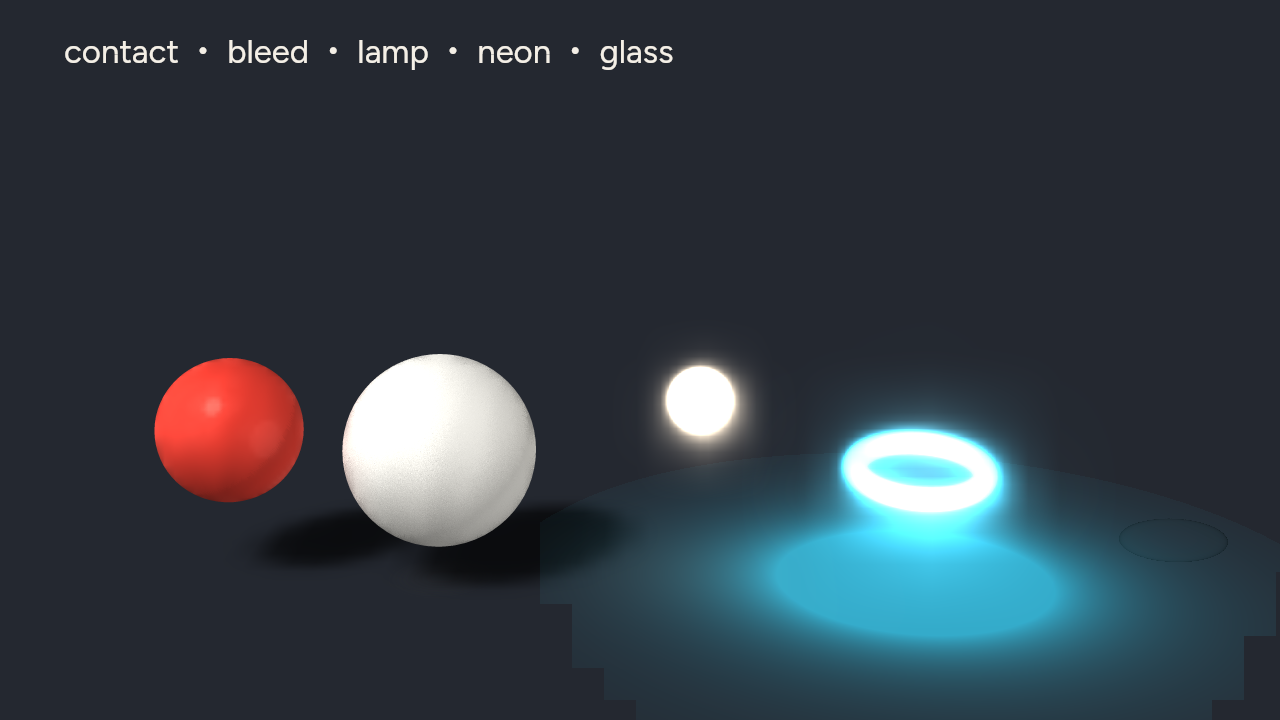
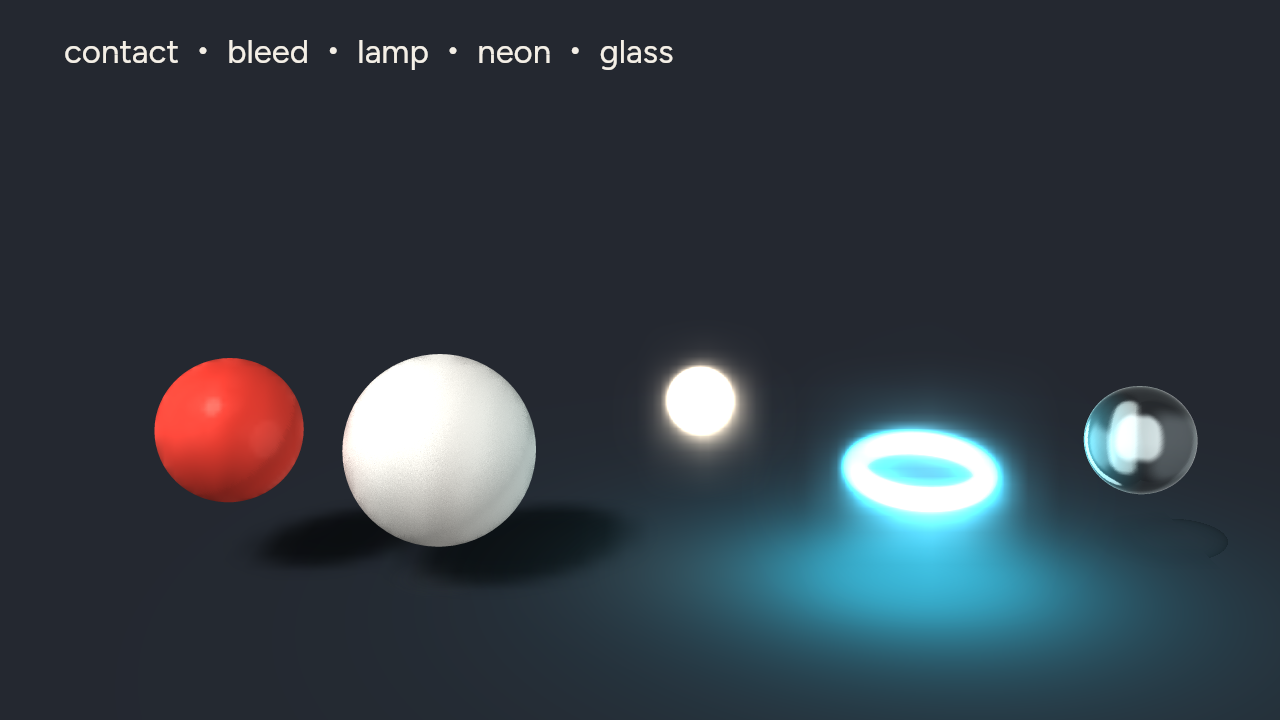
Keep 0.13.6 light pools smooth and leave the glass sphere visible.
The ground no longer covers a translucent glass solid, and the gallery checks that a pool does not stair-step.

Changed region(s): [[0.5625, 0.7028, 0.875, 0.9167], [0.8438, 0.5194, 0.9375, 0.7028]]

diff --git a/src/lighting.spec.ts b/src/lighting.spec.ts
@@ -47,4 +47,59 @@ describe('lighting', () => {
     const far = luma(ctx.getImageData(16, 140, 1, 1).data)
     expect(pool).toBeGreaterThan(far + 4)
   })
+
+  it('灯的光池沿一行相邻亮度差不超过 3', async () => {
+    const { png } = await renderLayer(`
+      <layer width="180" height="120" background="#101014" camera="360">
+        <sphere cx="90" cy="48" r="12" material="lamp" />
+        <ground y="96" rotateX="82" fill="#24262e" shadow-opacity="0" />
+      </layer>
+    `)
+    const ctx = await imageOf(png)
+    const lumaAt = (x: number, y: number) => {
+      const px = ctx.getImageData(x, y, 1, 1).data
+      return px[0]! * 0.3 + px[1]! * 0.59 + px[2]! * 0.11
+    }
+    const y = 92
+    const line = Array.from({ length: 160 }, (_, i) => lumaAt(10 + i, y))
+    const mid = line[80]!
+    const edge = Math.min(line[0]!, line[line.length - 1]!)
+    expect(mid).toBeGreaterThan(edge + 4)
+    let jump = 0
+    for (let i = 1; i < line.length; i++) jump = Math.max(jump, Math.abs(line[i]! - line[i - 1]!))
+    expect(jump).toBeLessThanOrEqual(3)
+  })
+
+  it('扁霓虹圆环下的光池没有台阶', async () => {
+    const { png } = await renderLayer(`
+      <layer width="360" height="200" background="#101014" camera="640">
+        <torus cx="180" cy="78" r="70" tube="10" fill="#3ad8ff" material="neon" rotateX="68" />
+        <ground y="168" rotateX="78" fill="#1c1e26" shadow-opacity="0" />
+      </layer>
+    `)
+    const ctx = await imageOf(png)
+    const frame = ctx.getImageData(0, 0, 360, 200).data
+    const lumaAt = (x: number, y: number) => {
+      const i = (y * 360 + x) * 4
+      return frame[i]! * 0.3 + frame[i + 1]! * 0.59 + frame[i + 2]! * 0.11
+    }
+    const y0 = 144
+    const y1 = 176
+    const x0 = 50
+    const x1 = 310
+    let brightest = 0
+    let dimmest = 255
+    let jump = 0
+    for (let y = y0; y <= y1; y++) {
+      for (let x = x0; x <= x1; x++) {
+        const L = lumaAt(x, y)
+        brightest = Math.max(brightest, L)
+        dimmest = Math.min(dimmest, L)
+        if (x < x1) jump = Math.max(jump, Math.abs(lumaAt(x + 1, y) - L))
+        if (y < y1) jump = Math.max(jump, Math.abs(lumaAt(x, y + 1) - L))
+      }
+    }
+    expect(brightest).toBeGreaterThan(dimmest + 4)
+    expect(jump).toBeLessThanOrEqual(3)
+  })
 })

diff --git a/CHANGELOG.md b/CHANGELOG.md
@@ -6,7 +6,7 @@
 
 The key light casts onto solids as well as `ground`. On a solid the edge stays hard. On `ground`, `shadow-blur` is the maximum softness in layer pixels. `0` stays hard. A larger value keeps the edge sharp where the caster meets the ground and softens it as the caster rises. The ground darkens where a caster sits close and picks up a little of that color. A solid does the same from its neighbors.
 
-`lamp` and `neon` emit. Omit `fill` and lamp is `#ffe6c2`, neon is `#3ad8ff`. Neon has a white core and a wider halo. They light what is near them, including the ground, and they do not cast. The halo is centered on the emitter and fades out. It does not end on a rectangle. Glass does not write a hard shadow. Light passing through it stays white at the center, takes the glass color toward the rim, and softens with `shadow-blur`. A three.js `emissive` is still added after shading, and it also lights nearby surfaces.
+`lamp` and `neon` emit. Omit `fill` and lamp is `#ffe6c2`, neon is `#3ad8ff`. Neon has a white core and a wider halo. They light what is near them, including the ground, and they do not cast. The halo is centered on the emitter and fades out. It does not end on a rectangle. A pool on the ground fades out smoothly, including under a torus that is flat on screen. Glass does not write a hard shadow. Light passing through it stays white at the center, takes the glass color toward the rim, and softens with `shadow-blur`. A translucent glass solid is painted after `ground`, so the ground does not cover it. A three.js `emissive` is still added after shading, and it also lights nearby surfaces.
 
 On `ground`, a soft shadow falls off without a stair or a hard cut at the blur radius. `shadow-blur="0"` stays hard, with an antialiased rim. The contact edge stays sharp when the caster meets the ground.
 
